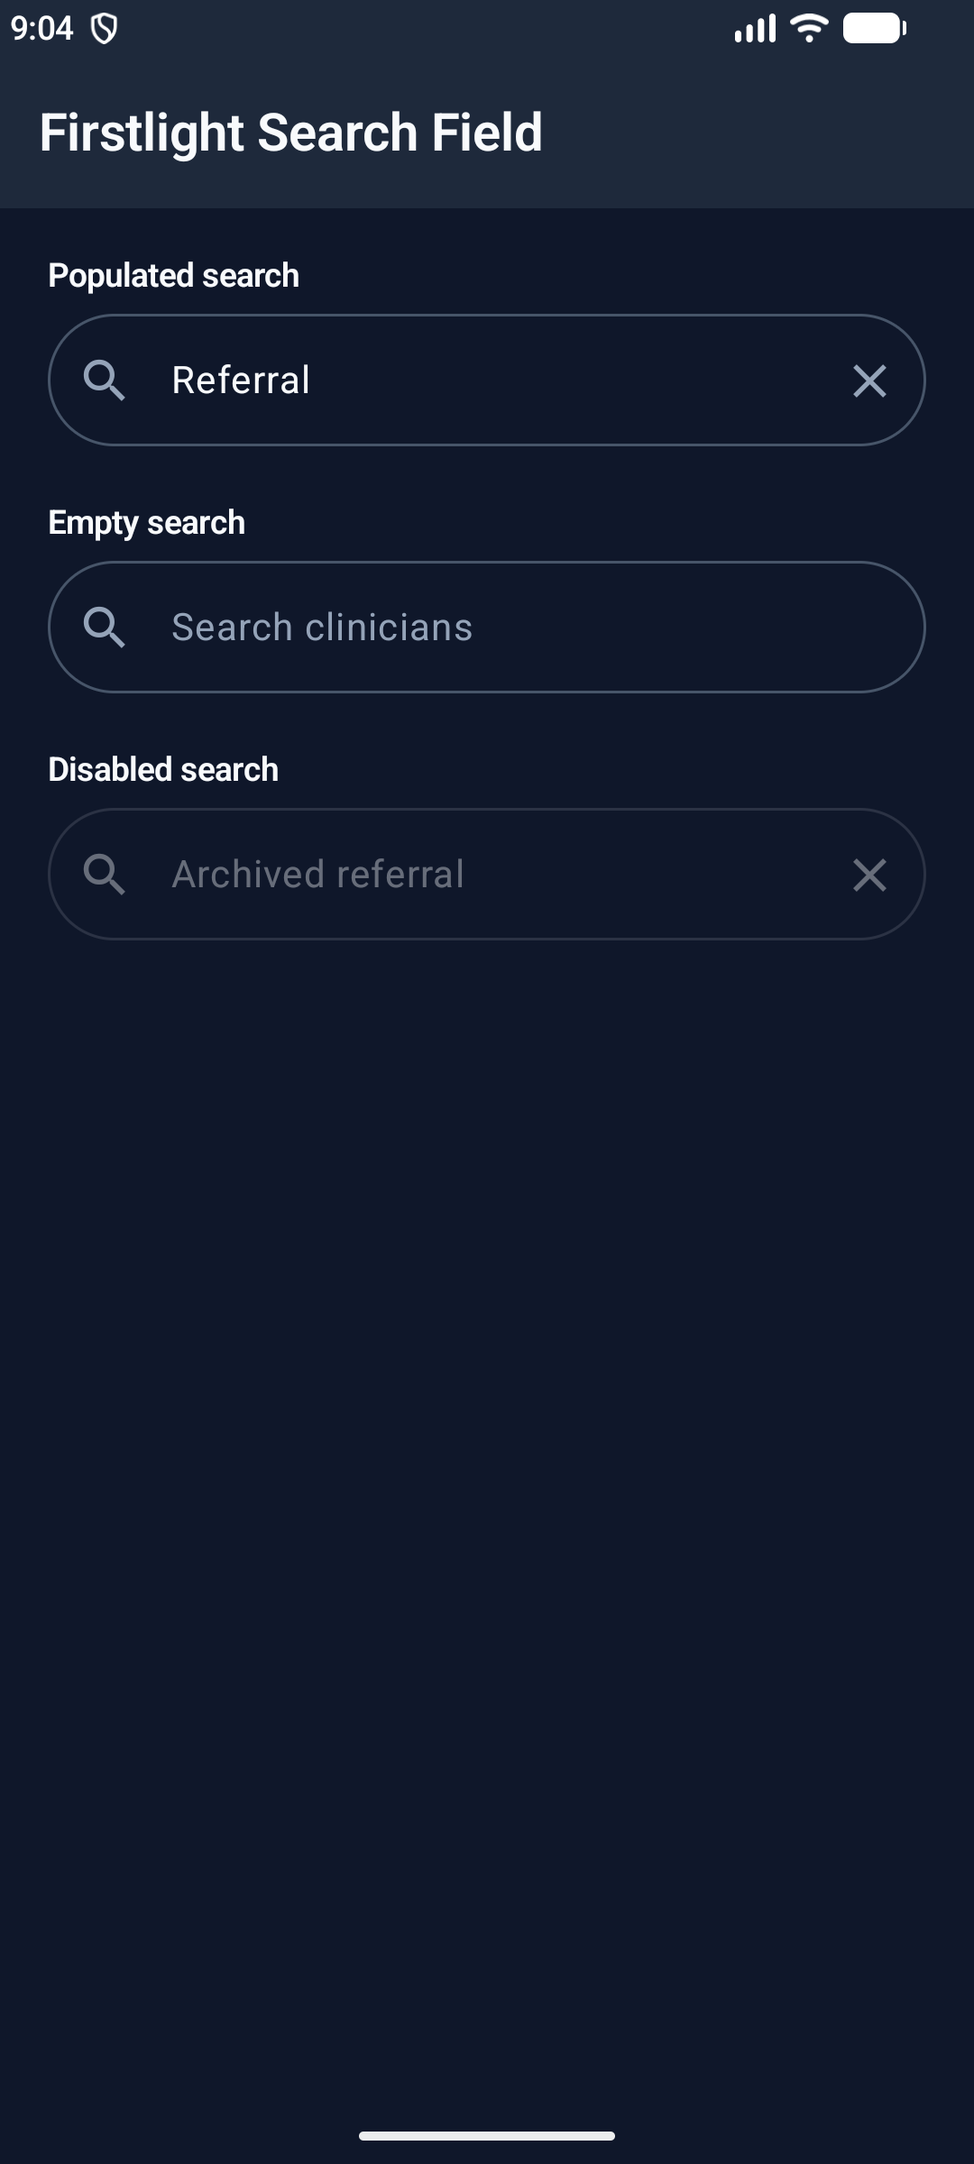
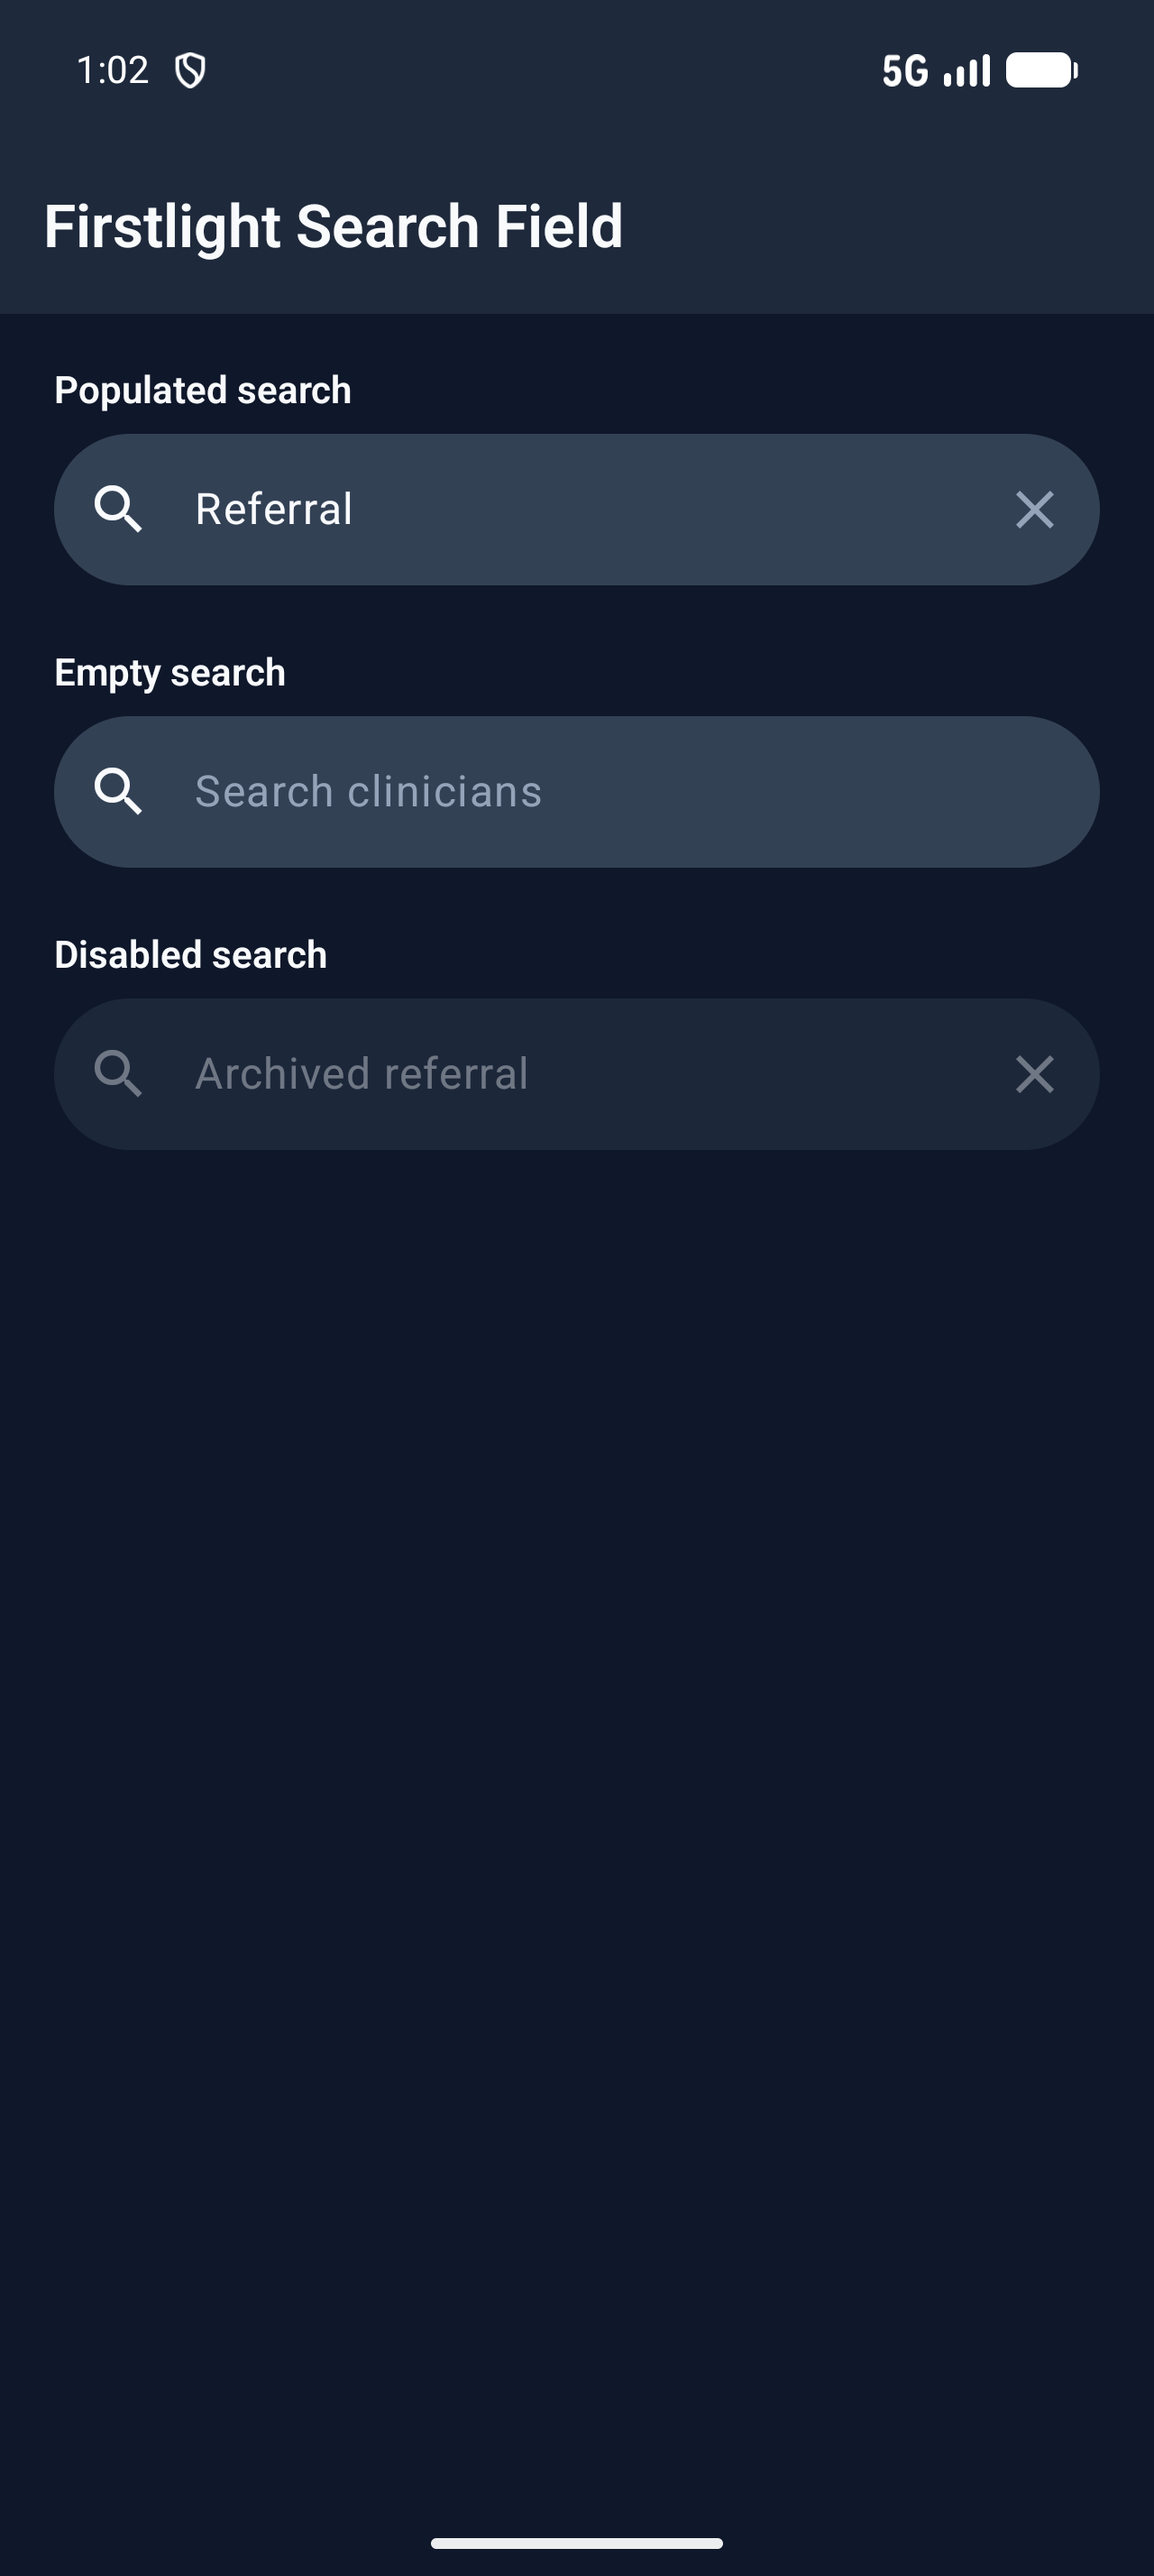
Draw the Android Search Field as a Material search bar and skip capitals
On Android the field is now Material 3's search bar: a filled
surface-variant pill at least 56 dp tall with no outline. It was an
outlined text field shaped like a pill.

An omitted autocapitalize now means none on both platforms, as the system
search bars do. iOS capitalised the first letter of a query and Android
capitalised sentences.

Amp-Thread-ID: https://ampcode.com/threads/T-01a1dca0-8660-73ca-b541-c07f690843ea

Changed region(s): [[0.0, 0.0, 0.9778, 0.4375], [0.7639, 0.0, 0.9472, 0.0312], [0.8861, 0.375, 0.9167, 0.4375]]

diff --git a/resources/android/SearchFieldControl.kt b/resources/android/SearchFieldControl.kt
@@ -5,7 +5,9 @@ import androidx.compose.foundation.layout.fillMaxWidth
 import androidx.compose.foundation.layout.sizeIn
 import androidx.compose.foundation.shape.CircleShape
 import androidx.compose.material3.IconButton
-import androidx.compose.material3.OutlinedTextField
+import androidx.compose.material3.TextField
+import androidx.compose.material3.TextFieldDefaults
+import androidx.compose.ui.graphics.Color
 import androidx.compose.runtime.Composable
 import androidx.compose.ui.Modifier
 import androidx.compose.ui.semantics.contentDescription
@@ -13,6 +15,7 @@ import androidx.compose.ui.semantics.semantics
 import androidx.compose.ui.text.input.TextFieldValue
 import androidx.compose.ui.unit.dp
 import com.nativephp.mobile.ui.MaterialIcon
+import com.nativephp.plugins.native_ui.NativeUITokens
 
 @Composable
 internal fun FirstlightSearchFieldControl(
@@ -21,22 +24,42 @@ internal fun FirstlightSearchFieldControl(
     onValueChange: (TextFieldValue) -> Unit,
     onClear: () -> Unit,
     onSubmit: () -> Unit,
+    tokens: NativeUITokens,
     modifier: Modifier = Modifier,
 ) {
     val description = listOf(configuration.accessibilityLabel, configuration.accessibilityHint)
         .filter(String::isNotEmpty)
         .joinToString(". ")
 
-    OutlinedTextField(
+    // Material 3 search bar: a filled full-radius container with no outline
+    // or focus indicator, at the 56 dp search bar height.
+    TextField(
         value = draft,
         onValueChange = onValueChange,
         modifier = modifier
             .fillMaxWidth()
-            .defaultMinSize(minHeight = 48.dp)
+            .defaultMinSize(minHeight = 56.dp)
             .semantics { contentDescription = description },
         enabled = !configuration.disabled,
         singleLine = true,
         shape = CircleShape,
+        colors = TextFieldDefaults.colors(
+            focusedContainerColor = tokens.surfaceVariant,
+            unfocusedContainerColor = tokens.surfaceVariant,
+            disabledContainerColor = tokens.surfaceVariant.copy(alpha = 0.38f),
+            focusedTextColor = tokens.onSurface,
+            unfocusedTextColor = tokens.onSurface,
+            focusedPlaceholderColor = tokens.onSurfaceVariant,
+            unfocusedPlaceholderColor = tokens.onSurfaceVariant,
+            focusedLeadingIconColor = tokens.onSurface,
+            unfocusedLeadingIconColor = tokens.onSurface,
+            focusedTrailingIconColor = tokens.onSurfaceVariant,
+            unfocusedTrailingIconColor = tokens.onSurfaceVariant,
+            cursorColor = tokens.primary,
+            focusedIndicatorColor = Color.Transparent,
+            unfocusedIndicatorColor = Color.Transparent,
+            disabledIndicatorColor = Color.Transparent,
+        ),
         placeholder = configuration.placeholder.takeIf(String::isNotEmpty)?.let { text ->
             { androidx.compose.material3.Text(text) }
         },

diff --git a/tests/ios/SearchFieldRendererContractTests.swift b/tests/ios/SearchFieldRendererContractTests.swift
@@ -77,6 +77,14 @@ final class SearchFieldRendererContractTests: XCTestCase {
         XCTAssertEqual(firstlightSearchFieldMinimumHeight, 36)
     }
 
+    func testOmittedAutocapitalizeLeavesQueriesUncapitalizedAsSystemSearchBarsDo() {
+        let field = FirstlightSearchTextField()
+        configureSearchTextField(field, configuration: SearchFieldRendererConfiguration(node: node(autocapitalize: nil)))
+        XCTAssertEqual(field.autocapitalizationType, .none)
+        configureSearchTextField(field, configuration: SearchFieldRendererConfiguration(node: node(autocapitalize: "sentences")))
+        XCTAssertEqual(field.autocapitalizationType, .sentences)
+    }
+
     func testDisabledFieldDimsTextAndSearchGlyphAndEnablingRestoresThem() {
         let field = FirstlightSearchTextField()
         configureSearchTextField(field, configuration: SearchFieldRendererConfiguration(node: node(disabled: true)))
@@ -100,26 +108,28 @@ final class SearchFieldRendererContractTests: XCTestCase {
     private func node(
         value: String = "cardiology",
         syncMode: String = "live",
-        disabled: Bool = false
+        disabled: Bool = false,
+        autocapitalize: String? = "words"
     ) -> NativeUINode {
-        NativeUINode(
+        var props: [String: Any] = [
+            "value": value,
+            "placeholder": "Search specialties",
+            "disabled": disabled,
+            "autocorrect_policy": "disabled",
+            "sync_mode": syncMode,
+            "debounce_ms": 300,
+            "a11y_label": "Search specialties",
+            "a11y_hint": "Enter a specialty name",
+            "on_change": 41,
+            "on_submit": 42,
+        ]
+        if let autocapitalize { props["autocapitalize"] = autocapitalize }
+        return NativeUINode(
             id: 7,
             type: "firstlight_search_field",
             layout: nil,
             style: nil,
-            props: GenericProps([
-                "value": value,
-                "placeholder": "Search specialties",
-                "disabled": disabled,
-                "autocapitalize": "words",
-                "autocorrect_policy": "disabled",
-                "sync_mode": syncMode,
-                "debounce_ms": 300,
-                "a11y_label": "Search specialties",
-                "a11y_hint": "Enter a specialty name",
-                "on_change": 41,
-                "on_submit": 42,
-            ]),
+            props: GenericProps(props),
             onPress: 0,
             onLongPress: 0,
             children: []

diff --git a/tests/android/src/test/kotlin/dev/firstlightui/plugins/firstlight_ui/ui/SearchFieldTest.kt b/tests/android/src/test/kotlin/dev/firstlightui/plugins/firstlight_ui/ui/SearchFieldTest.kt
@@ -12,6 +12,8 @@ import com.nativephp.mobile.ui.nativerender.NativeUITree
 import org.junit.Assert.assertEquals
 import org.junit.Assert.assertNull
 import org.junit.Assert.assertTrue
+import androidx.compose.ui.text.input.KeyboardCapitalization
+import com.nativephp.plugins.native_ui.NativeUITheme
 import org.junit.Assume.assumeTrue
 import org.junit.Rule
 import org.junit.Test
@@ -29,6 +31,15 @@ class SearchFieldTest {
         assertEquals(41, configuration.onChangeCallback)
         assertEquals(42, configuration.onSubmitCallback)
         assertEquals("Clear search", configuration.clearA11yLabel)
+    }
+
+    @Test fun `omitted autocapitalize leaves queries uncapitalized as system search bars do`() {
+        val options = searchFieldKeyboardOptions(SearchFieldRendererConfiguration(node(autocapitalize = null)))
+        assertEquals(KeyboardCapitalization.None, options.capitalization)
+        assertEquals(
+            KeyboardCapitalization.Sentences,
+            searchFieldKeyboardOptions(SearchFieldRendererConfiguration(node(autocapitalize = "sentences"))).capitalization,
+        )
     }
 
     @Test fun `focused acknowledgements preserve selection composition and corrections wait`() {
@@ -76,6 +87,7 @@ class SearchFieldTest {
                         configuration = SearchFieldRendererConfiguration(node()),
                         draft = TextFieldValue("Referral"),
                         onValueChange = {}, onClear = {}, onSubmit = {},
+                        tokens = NativeUITheme.light,
                     )
                 }
             }
@@ -86,13 +98,14 @@ class SearchFieldTest {
         value: String = "cardiology",
         syncMode: String = "live",
         disabled: Boolean = false,
+        autocapitalize: String? = "words",
     ) = NativeUINode(
         id = 7,
-        props = GenericProps(mapOf(
+        props = GenericProps(listOfNotNull(
             "value" to value,
             "placeholder" to "Search specialties",
             "disabled" to disabled,
-            "autocapitalize" to "words",
+            autocapitalize?.let { "autocapitalize" to it },
             "autocorrect_policy" to "disabled",
             "sync_mode" to syncMode,
             "debounce_ms" to 300,
@@ -100,7 +113,7 @@ class SearchFieldTest {
             "a11y_hint" to "Enter a specialty name",
             "on_change" to 41,
             "on_submit" to 42,
-        )),
+        ).toMap()),
     )
 
     private fun tree(target: NativeUINode) = NativeUITree(

diff --git a/resources/android/SearchFieldRenderer.kt b/resources/android/SearchFieldRenderer.kt
@@ -12,6 +12,8 @@ import androidx.compose.ui.Modifier
 import androidx.compose.ui.focus.onFocusChanged
 import androidx.compose.ui.text.input.ImeAction
 import androidx.compose.ui.text.input.KeyboardCapitalization
+import androidx.compose.foundation.isSystemInDarkTheme
+import com.nativephp.plugins.native_ui.NativeUITheme
 import androidx.compose.ui.text.input.TextFieldValue
 import com.nativephp.mobile.ui.nativerender.NativeUIBridge
 import com.nativephp.mobile.ui.nativerender.NativeUINode
@@ -169,6 +171,7 @@ object SearchFieldRenderer {
             onValueChange = { state.userChanged(it)?.let(events::dispatch) },
             onClear = { state.clear()?.let(events::dispatch) },
             onSubmit = { state.submit().forEach(events::dispatch) },
+            tokens = if (isSystemInDarkTheme()) NativeUITheme.dark else NativeUITheme.light,
             modifier = modifier.onFocusChanged {
                 focusChanged(it.isFocused)
             },
@@ -178,10 +181,10 @@ object SearchFieldRenderer {
 
 internal fun searchFieldKeyboardOptions(configuration: SearchFieldRendererConfiguration) = KeyboardOptions(
     capitalization = when (configuration.autocapitalize) {
-        "none" -> KeyboardCapitalization.None
+        "sentences" -> KeyboardCapitalization.Sentences
         "words" -> KeyboardCapitalization.Words
         "characters" -> KeyboardCapitalization.Characters
-        else -> KeyboardCapitalization.Sentences
+        else -> KeyboardCapitalization.None
     },
     autoCorrectEnabled = when (configuration.autocorrectPolicy) {
         "enabled" -> true

diff --git a/resources/ios/SearchFieldControl.swift b/resources/ios/SearchFieldControl.swift
@@ -120,7 +120,7 @@ func configureSearchTextField(
     case "sentences": .sentences
     case "words": .words
     case "characters": .allCharacters
-    default: .sentences
+    default: .none
     }
     field.autocorrectionType = switch configuration.autocorrectPolicy {
     case "enabled": .yes

diff --git a/spec/components/search-field.md b/spec/components/search-field.md
@@ -54,7 +54,7 @@ Text Field.
 | `value` / `native:model` | Strict string; omission defaults to `''`. |
 | `placeholder` | Empty-query prompt; never the accessible name. |
 | `disabled` | Prevents editing, clearing, change, and submit. |
-| `autocapitalize` | `none`, `sentences`, `words`, or `characters`. |
+| `autocapitalize` | `none` (default, as in the system search bars), `sentences`, `words`, or `characters`. |
 | `autocorrect` | Explicitly enables or disables platform autocorrection. |
 | `a11y-label` | Required, non-empty accessible name. |
 | `a11y-hint` | Additional VoiceOver or TalkBack guidance. |
@@ -124,11 +124,12 @@ state. The search glyph is decorative. The clear action carries the localised
   Dynamic Type. Disabled fields use tertiary label text, dim the glyph to 0.38
   alpha, and hide the clear button. Server publications are applied only
   outside marked text and keep the selection offsets.
-- Android uses Material 3 `OutlinedTextField` with `singleLine = true`, a
-  `CircleShape` container at least 48 dp tall, a leading `search`
+- Android draws a Material 3 search bar: a filled `TextField` with
+  `singleLine = true`, a `CircleShape` `surface-variant` container at least
+  56 dp tall with no outline or focus indicator, a leading `search`
   `MaterialIcon`, a trailing `close` `IconButton` of at least 48 dp while the
   query is non-empty, `TextFieldValue` selection and composition, and
-  `ImeAction.Search`. Omitted `autocapitalize` maps to sentences.
+  `ImeAction.Search`. Omitted `autocapitalize` maps to none on both platforms.
 
 ## Renderer decision
 

diff --git a/docs/components/search-field.md b/docs/components/search-field.md
@@ -42,7 +42,7 @@ keyboard, selection, clear, focus, and accessibility behaviour.
 | `value` / `native:model` | `string` | Published query; omission defaults to `''`. |
 | `placeholder` | `string` | Empty-query prompt; never the accessible name. |
 | `disabled` | `bool` | Prevents focus, editing, clearing, change, and submit. |
-| `autocapitalize` | enum string | `none`, `sentences`, `words`, or `characters`; omission keeps platform policy. |
+| `autocapitalize` | enum string | `none`, `sentences`, `words`, or `characters`; omission means `none`, as in the system search bars. |
 | `autocorrect` | `bool` | Explicitly enables or disables correction; omission keeps platform policy. |
 | `a11y-label` | non-empty `string` | Required accessible name. |
 | `a11y-hint` | `string` | Additional VoiceOver and TalkBack guidance. |
@@ -95,7 +95,7 @@ accessible name and meets the 44-point iOS or 48-dp Android target baseline.
 
 iOS embeds `UISearchTextField`, so UIKit owns search chrome, the search and clear
 affordances, cursor, selection, marked text, keyboard, and Dynamic Type. Android
-uses a Material 3 search-field composition with `TextFieldValue`, the search IME
+draws a Material 3 search bar, a filled pill with no outline, with `TextFieldValue`, the search IME
 action, Material search/clear affordances, Compose semantics, and font scaling.
 
 ## Screenshots
